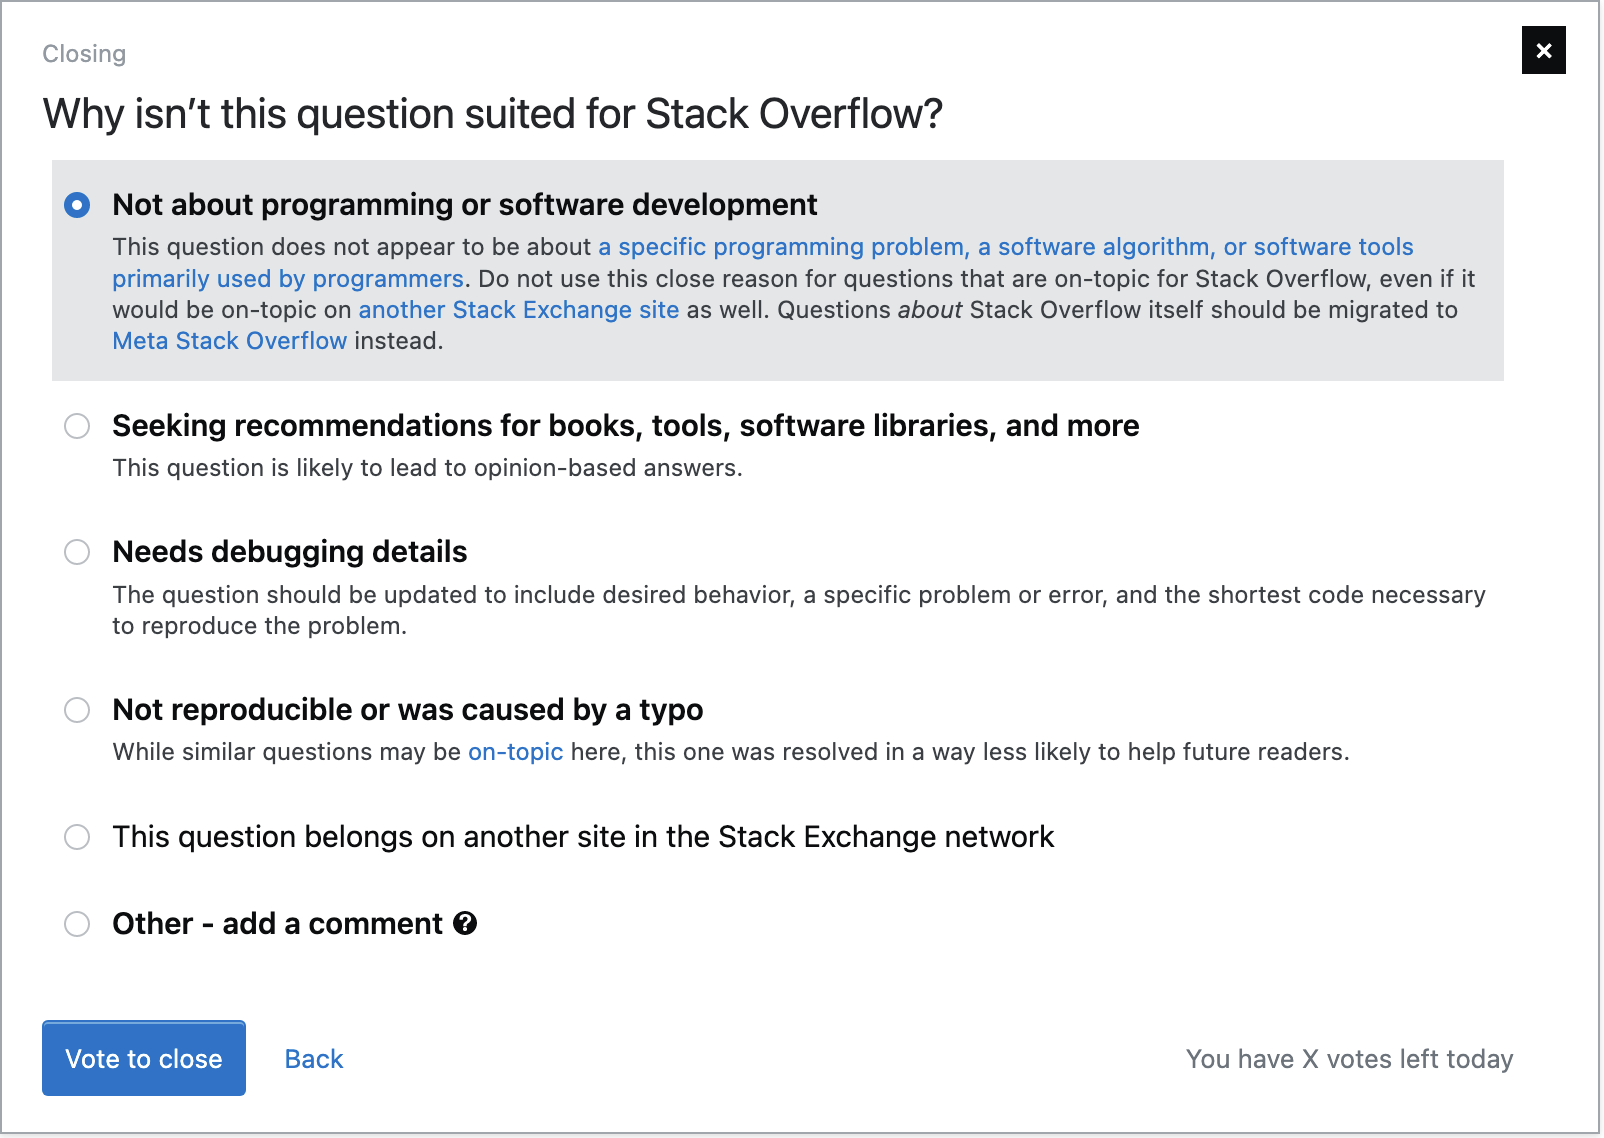
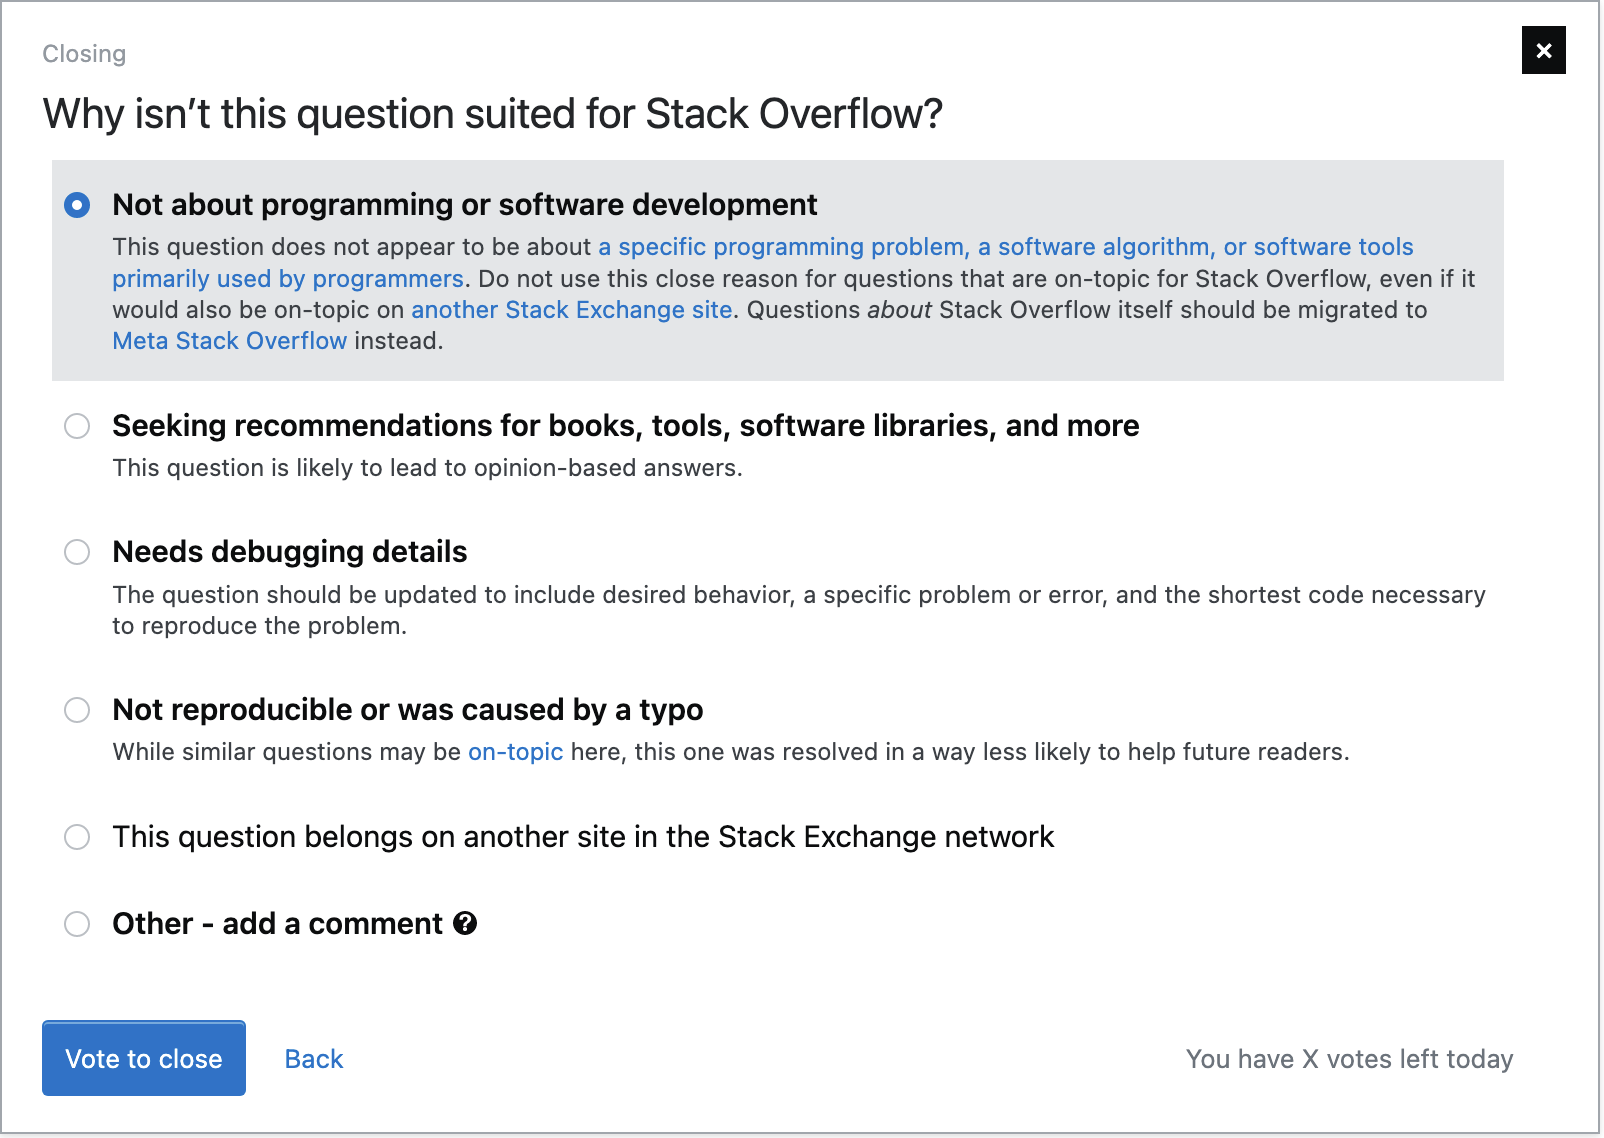
Fixed MSO link

Changed region(s): [[0.1247, 0.246, 0.904, 0.2768]]

diff --git a/builders/html-output/mock-close-dialogue-rendered.html b/builders/html-output/mock-close-dialogue-rendered.html
@@ -67,7 +67,7 @@
                                         Not about programming or software development
                                     </span>
                                     <p class="s-description">
-                                        This question does not appear to be about <a href="https://stackoverflow.com/help/on-topic">a specific programming problem, a software algorithm, or software tools primarily used by programmers</a>. Do not use this close reason for questions that are on-topic for Stack Overflow, even if it would be on-topic on <a href="https://stackexchange.com/sites">another Stack Exchange site</a> as well. Questions <em>about</em> Stack Overflow itself should be migrated to <a href="https://stackoverflow.com/help/privileges/participate-in-meta">Meta Stack Overflow</a> instead.
+                                        This question does not appear to be about <a href="https://stackoverflow.com/help/on-topic">a specific programming problem, a software algorithm, or software tools primarily used by programmers</a>. Do not use this close reason for questions that are on-topic for Stack Overflow, even if it would also be on-topic on <a href="https://stackexchange.com/sites">another Stack Exchange site</a>. Questions <em>about</em> Stack Overflow itself should be migrated to <a href="https://stackoverflow.com/help/whats-meta">Meta Stack Overflow</a> instead.
                                     </p>
                                 </label>
                             </div>

diff --git a/builders/main.py b/builders/main.py
@@ -23,7 +23,7 @@ def build_and_validate_reasons() -> dict:
 
     reasons = {
         'Brief Description': reason,
-        'Usage guidance': f'{topic}. Do not use this close reason for questions that are on-topic for $SiteName, even if it would be on-topic on {another_site} as well. Questions _about_ $SiteName itself should be migrated to [Meta $SiteName](/help/privileges/participate-in-meta) instead.',
+        'Usage guidance': f'{topic}. Do not use this close reason for questions that are on-topic for $SiteName, even if it would also be on-topic on {another_site}. Questions _about_ $SiteName itself should be migrated to [Meta $SiteName](/help/whats-meta) instead.',
         'Post notice close description': f'**Closed.** This question is [{reason.lower()}](/help/closed-questions). It is not currently accepting answers.',
         'Post owner guidance': f'{topic}. You can edit the question so it’s [on-topic](/help/on-topic) or see if it can be answered on {another_site}, but be sure to read the on-topic page for the site you choose before posting.',
         'Public user guidance': f'{topic}. If you believe the question is on-topic on {another_site} you can leave a comment to explain where the question may be able to be answered.'

diff --git a/builders/md-output/table.md b/builders/md-output/table.md
@@ -1,7 +1,7 @@
 | Field | (Rendered) Markdown | Markdown Length |
 |:---|:---|:---|
 | Brief Description | Not about programming or software development | 45 |
-| Usage guidance | This question does not appear to be about [a specific programming problem, a software algorithm, or software tools primarily used by programmers](/help/on-topic). Do not use this close reason for questions that are on-topic for $SiteName, even if it would be on-topic on [another Stack Exchange site](https://stackexchange.com/sites) as well. Questions _about_ $SiteName itself should be migrated to [Meta $SiteName](/help/privileges/participate-in-meta) instead. | 463 |
+| Usage guidance | This question does not appear to be about [a specific programming problem, a software algorithm, or software tools primarily used by programmers](/help/on-topic). Do not use this close reason for questions that are on-topic for $SiteName, even if it would also be on-topic on [another Stack Exchange site](https://stackexchange.com/sites). Questions _about_ $SiteName itself should be migrated to [Meta $SiteName](/help/whats-meta) instead. | 440 |
 | Post notice close description | **Closed.** This question is [not about programming or software development](/help/closed-questions). It is not currently accepting answers. | 140 |
 | Post owner guidance | This question does not appear to be about [a specific programming problem, a software algorithm, or software tools primarily used by programmers](/help/on-topic). You can edit the question so it’s [on-topic](/help/on-topic) or see if it can be answered on [another Stack Exchange site](https://stackexchange.com/sites), but be sure to read the on-topic page for the site you choose before posting. | 397 |
 | Public user guidance | This question does not appear to be about [a specific programming problem, a software algorithm, or software tools primarily used by programmers](/help/on-topic). If you believe the question is on-topic on [another Stack Exchange site](https://stackexchange.com/sites) you can leave a comment to explain where the question may be able to be answered. | 350 |
